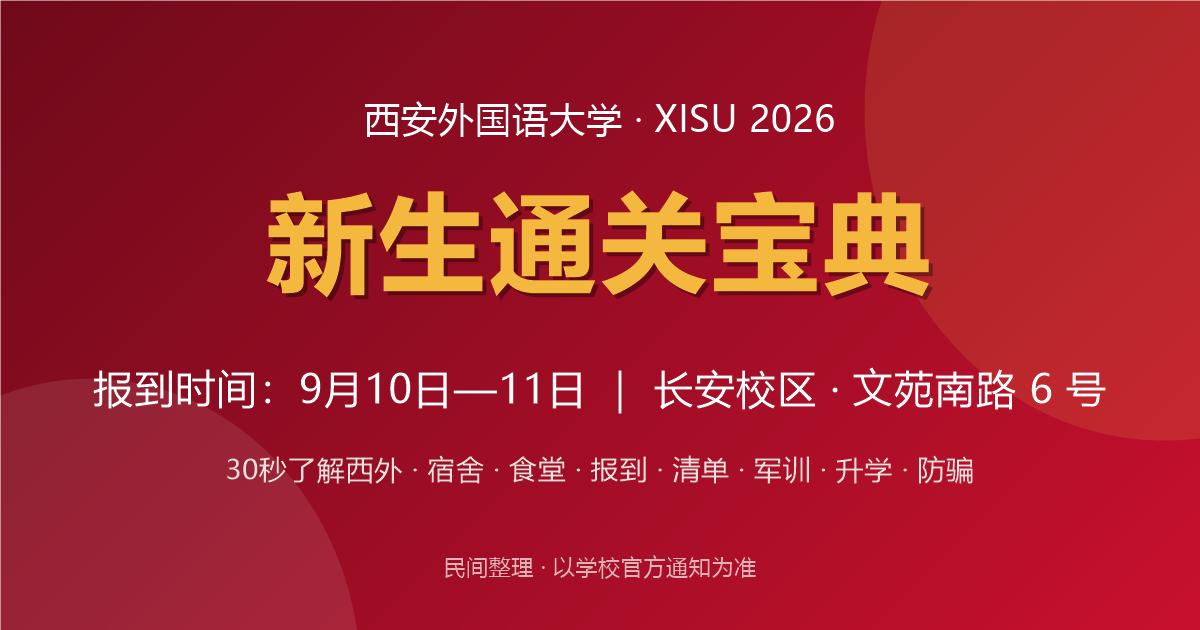
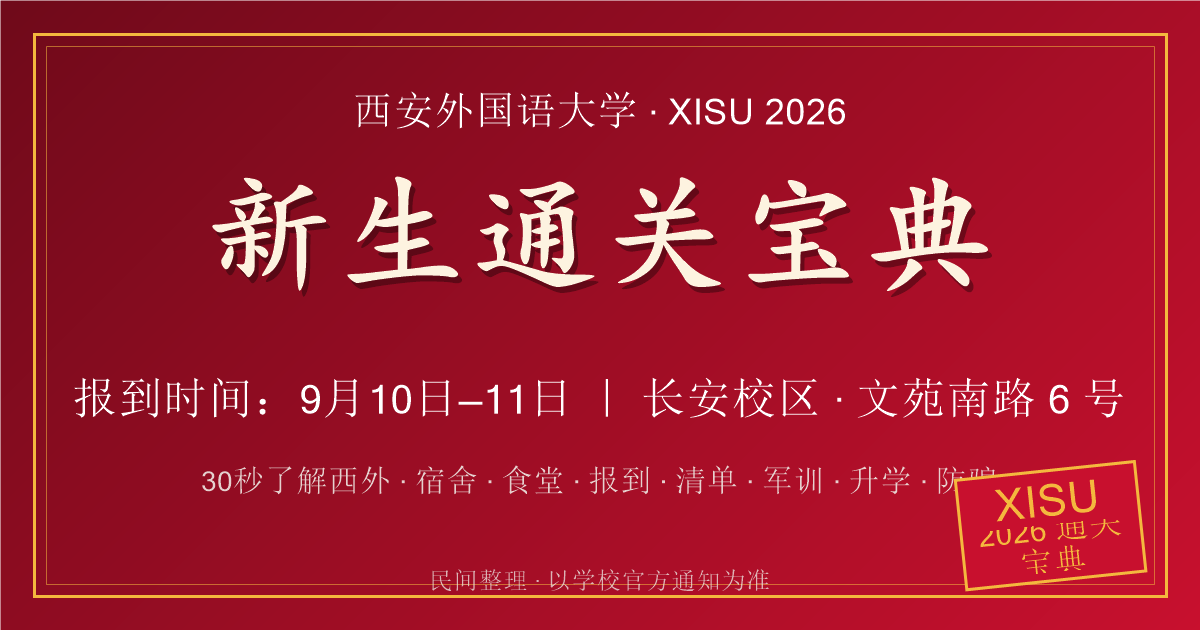
美化(二)：对比度修复/动画收紧/模块色条/关卡印章/闯关进度面板/分享按钮/书法分享图重制

diff --git a/assets/css/style.css b/assets/css/style.css
@@ -297,7 +297,7 @@ main { max-width: 1080px; margin: 0 auto; padding: 0 20px; }
 .tag-cloud { display: flex; flex-wrap: wrap; gap: 10px; }
 .tag { border-radius: 999px; padding: 8px 16px; font-size: 14.5px; font-weight: 600; }
 .tag-red { background: var(--red-soft); color: var(--red-deep); border: 1px solid #f4c9cf; }
-.tag-soft { background: var(--gold-soft); color: #8a6110; border: 1px solid #f2dd9e; }
+.tag-soft { background: var(--gold-soft); color: #7a5208; border: 1px solid #ecd39a; }
 
 /* 提示条 */
 .tip {
@@ -586,7 +586,7 @@ tbody tr:nth-child(even) { background: #fdf7f3; }
 .dorm-card { border-top: 5px solid var(--red); }
 .dorm-detail { font-size: 14px; color: var(--ink-soft); }
 .dorm-detail b { color: var(--red-dark); }
-.src-note { margin-top: 10px; font-size: 12px; color: #b08a3a; font-style: italic; }
+.src-note { margin-top: 10px; font-size: 12px; color: #96702c; font-style: italic; }
 
 /* 防骗卡 */
 .scam-card { border-top: 5px solid var(--red); padding: 20px; }
@@ -672,7 +672,7 @@ tbody tr:nth-child(even) { background: #fdf7f3; }
 }
 
 /* ---------------- 滚动渐入动画 ---------------- */
-.reveal { opacity: 0; transform: translateY(16px); transition: opacity .55s ease, transform .55s ease; }
+.reveal { opacity: 0; transform: translateY(16px); transition: opacity .4s ease, transform .4s ease; }
 .reveal.in { opacity: 1; transform: none; }
 @media (prefers-reduced-motion: reduce) {
   html { scroll-behavior: auto; }
@@ -887,7 +887,7 @@ tbody tr:nth-child(even) { background: #fdf7f3; }
 .stat b { font-variant-numeric: tabular-nums; }
 
 /* ---------- 卡片 stagger 渐入 ---------- */
-.reveal { transition-delay: calc(var(--i, 0) * 70ms); }
+.reveal { transition-delay: calc(var(--i, 0) * 40ms); }
 
 /* ---------- 导航芯片：已读标记 ---------- */
 .chip-done {
@@ -1030,7 +1030,7 @@ html[data-theme="dark"] .mini-card b,
 html[data-theme="dark"] .cl-note,
 html[data-theme="dark"] .tag-red { color: #ff8195; }
 html[data-theme="dark"] .tag-red { border-color: #6b3a44; }
-html[data-theme="dark"] .tag-soft { color: #e2bb6b; border-color: #6b5a2e; }
+html[data-theme="dark"] .tag-soft { color: #f0cd85; border-color: #6b5a2e; }
 html[data-theme="dark"] .section-head h2,
 html[data-theme="dark"] .sub-title,
 html[data-theme="dark"] .cl-group-name,
@@ -1055,7 +1055,7 @@ html[data-theme="dark"] .tip { background: #2b2416; border-color: #6b5a2e; }
 html[data-theme="dark"] .mini-card { background: #1d1823; border-color: #322a38; }
 html[data-theme="dark"] .link-item { background: #1d1823; border-color: #322a38; }
 html[data-theme="dark"] .link-item:hover { border-color: #ff8195; background: #3a1a20; }
-html[data-theme="dark"] .src-note { color: #c9a25e; }
+html[data-theme="dark"] .src-note { color: #d3ab66; }
 html[data-theme="dark"] .tl-body { background: #1d1823; border-color: #322a38; }
 html[data-theme="dark"] .toc-rail { background: var(--card); border-color: #322a38; }
 html[data-theme="dark"] .toc-dot { background: #453c50; }
@@ -1089,3 +1089,70 @@ html[data-theme="dark"] .nav-chip.active .chip-done { background: rgba(255,255,2
   .hero-title .char { opacity: 1; transform: none; animation: none; }
   .reveal { transition-delay: 0ms !important; }
 }
+
+/* ============================================================
+   2026 视觉升级（二）：章节感 / 印章 / 闯关面板 / 分享 / 暗色细节
+   ============================================================ */
+
+/* ---------- B1 模块色条：每个模块一个主题色，卡片顶部色条同色系 ---------- */
+.section { --sec-c: var(--red); }
+#campus { --sec-c: #2a6cb8; }
+#dorm { --sec-c: #1f7a4d; }
+#food { --sec-c: #c98a0b; }
+#checklist { --sec-c: #c98a0b; }
+#military { --sec-c: #1f7a4d; }
+#transfer { --sec-c: #2a6cb8; }
+#services { --sec-c: #c98a0b; }
+
+.section .card {
+  box-shadow: var(--shadow), inset 0 4px 0 var(--sec-c);
+}
+/* 旧版固定顶部色条由模块色条取代 */
+.route-card, .dorm-card, .scam-card, .contact-card { border-top: none; }
+/* 这些卡片保留各自强调，不叠加模块色条 */
+.checklist-summary, .intro-card, .tip-card, .warn-card {
+  box-shadow: var(--shadow);
+}
+/* 清单卡与提示框保留原有强调 */
+.checklist-summary { box-shadow: var(--shadow), inset 0 4px 0 var(--gold); }
+.intro-card { box-shadow: var(--shadow), inset 0 4px 0 var(--red); }
+
+/* ---------- A3 地图暗色适配 ---------- */
+html[data-theme="dark"] .map-figure img {
+  filter: brightness(.82) saturate(.86);
+  border: 1px solid #3a3340;
+}
+
+/* ---------- B2 关卡印章（模块标签） ---------- */
+.section-kicker {
+  font-family: var(--font-display);
+  background: linear-gradient(135deg, var(--gold), var(--gold-deep));
+  color: var(--red-dark);
+  border: 1px solid rgba(224, 156, 20, .5);
+  border-radius: 8px;
+  padding: 4px 12px;
+  letter-spacing: 2px;
+  transform: rotate(-2deg);
+  box-shadow: 0 2px 6px rgba(224, 156, 20, .3);
+}
+html[data-theme="dark"] .section-kicker { color: #6f0a1a; }
+@media (prefers-reduced-motion: reduce) { .section-kicker { transform: none; } }
+
+/* ---------- C1 闯关进度面板 ---------- */
+.quest-card { border: 1px solid var(--line); }
+.quest-head { display: flex; align-items: center; gap: 14px; margin-bottom: 16px; }
+.quest-emoji { font-size: 22px; }
+.quest-titles b { font-family: var(--font-display); font-size: 21px; color: var(--red-dark); }
+.quest-state { display: block; font-size: 13px; color: var(--ink-soft); margin-top: 2px; }
+.quest-row { display: grid; grid-template-columns: 1fr 1fr; gap: 18px; }
+.quest-item { display: flex; align-items: center; gap: 12px; }
+.quest-label { font-size: 14px; color: var(--ink); white-space: nowrap; }
+.quest-bar { flex: 1; height: 10px; border-radius: 999px; background: var(--line); overflow: hidden; }
+.quest-bar i { display: block; height: 100%; width: 0; border-radius: 999px; transition: width .4s ease; }
+#quest-modules { background: linear-gradient(90deg, var(--red), #ff8195); }
+#quest-list { background: linear-gradient(90deg, var(--green), #6cc79a); }
+.quest-num { font-size: 14px; font-weight: 700; font-variant-numeric: tabular-nums; color: var(--red-dark); }
+html[data-theme="dark"] .quest-card { border-color: #322a38; }
+html[data-theme="dark"] .quest-titles b, html[data-theme="dark"] .quest-num { color: #ff8a9c; }
+html[data-theme="dark"] .quest-label { color: #cfc8d8; }
+@media (max-width: 760px) { .quest-row { grid-template-columns: 1fr; } .quest-emoji { font-size: 19px; } }

diff --git a/assets/js/app.js b/assets/js/app.js
@@ -23,6 +23,7 @@
     var chip = nav.querySelector('[data-sec="' + sec + '"]');
     var done = chip ? chip.querySelector('.chip-done') : null;
     if (done) done.hidden = false;
+    if (typeof updateQuest === 'function') updateQuest();
   }
 
   var sectionObserver = new IntersectionObserver(function (entries) {
@@ -400,6 +401,7 @@
       if (bar) bar.style.width = gPct + '%';
       if (count) count.textContent = gDone + '/' + g.items.length;
     });
+    if (typeof updateQuest === 'function') updateQuest();
   }
 
   function renderChecklist() {
@@ -615,6 +617,51 @@
   window.addEventListener('beforeprint', function () {
     document.querySelectorAll('details.acc').forEach(function (d) { d.setAttribute('open', ''); });
   });
+
+  /* ================= 闯关进度面板 ================= */
+  var questState = document.getElementById('quest-state');
+  var questModules = document.getElementById('quest-modules');
+  var questModulesNum = document.getElementById('quest-modules-num');
+  var questList = document.getElementById('quest-list');
+  var questListNum = document.getElementById('quest-list-num');
+  function updateQuest() {
+    var arr = checked || [];
+    var all = flattenItems();
+    var lpct = all.length ? Math.round(arr.length / all.length * 100) : 0;
+    var total = sections.length || 10;
+    var read = Math.min(viewed.length, total);
+    if (questModules) questModules.style.width = (read / total * 100) + '%';
+    if (questModulesNum) questModulesNum.textContent = read + ' / ' + total;
+    if (questList) questList.style.width = lpct + '%';
+    if (questListNum) questListNum.textContent = lpct + '%';
+    if (questState) {
+      if (read >= total && lpct >= 100) questState.textContent = '🏆 全通关！你就是最全的 XISUer 通关达人！';
+      else questState.textContent = '继续闯关：集齐 ' + total + ' 个模块 + 100% 清单即通关';
+    }
+  }
+
+  /* ================= 分享给同学 ================= */
+  var shareBtn = document.getElementById('share-btn');
+  if (shareBtn) {
+    var shareDefault = shareBtn.innerHTML;
+    var shareData = {
+      title: '西安外国语大学 · 2026 新生通关宝典',
+      text: '报到全攻略！30秒了解西外、宿舍食堂、报到流程、军训、升学、防骗，新生必备。',
+      url: 'https://xzt1118.github.io/xisu-guide-2026/'
+    };
+    shareBtn.addEventListener('click', function () {
+      if (navigator.share) {
+        navigator.share(shareData).catch(function () {});
+      } else if (navigator.clipboard && navigator.clipboard.writeText) {
+        navigator.clipboard.writeText(shareData.url).then(function () {
+          shareBtn.textContent = '链接已复制 ✓';
+          setTimeout(function () { shareBtn.innerHTML = shareDefault; }, 2000);
+        }, function () { window.prompt('复制链接', shareData.url); });
+      } else {
+        window.prompt('复制链接', shareData.url);
+      }
+    });
+  }
 
   renderChecklist();
 })();

diff --git a/index.html b/index.html
@@ -132,6 +132,7 @@
     <div class="hero-actions">
       <a class="btn btn-gold" href="#know"><svg viewBox="0 0 24 24" class="ic"><path d="M5 12h14M13 6l6 6-6 6"/></svg>开始闯关</a>
       <a class="btn btn-ghost" href="#checklist"><svg viewBox="0 0 24 24" class="ic"><path d="m5 12 5 5 9-11"/></svg>打开必备清单</a>
+      <button class="btn btn-ghost" id="share-btn" type="button"><svg viewBox="0 0 24 24" class="ic"><path d="M12 3v12M8 7l4-4 4 4"/><path d="M5 11v9a1 1 0 0 0 1 1h12a1 1 0 0 0 1-1v-9"/></svg>分享给同学</button>
     </div>
     <div class="hero-stats">
       <div class="stat"><b data-count="4">0</b><span>新中国最早建立的外语院校之一</span></div>
@@ -143,6 +144,29 @@
 </section>
 
 <main>
+
+<!-- ======================= 闯关进度总览 ======================= -->
+<div class="card quest-card" id="quest-card">
+  <div class="quest-head">
+    <span class="quest-emoji emoji-orb orb-gold">🏆</span>
+    <div class="quest-titles">
+      <b>闯关进度</b>
+      <span class="quest-state" id="quest-state">正在闯关中…</span>
+    </div>
+  </div>
+  <div class="quest-row">
+    <div class="quest-item">
+      <span class="quest-label">📖 已读模块</span>
+      <div class="quest-bar"><i id="quest-modules"></i></div>
+      <span class="quest-num" id="quest-modules-num">0 / 10</span>
+    </div>
+    <div class="quest-item">
+      <span class="quest-label">🎒 清单准备</span>
+      <div class="quest-bar"><i id="quest-list"></i></div>
+      <span class="quest-num" id="quest-list-num">0%</span>
+    </div>
+  </div>
+</div>
 
 <!-- ======================= 模块 01：30秒了解西外 ======================= -->
 <section class="section" id="know">
